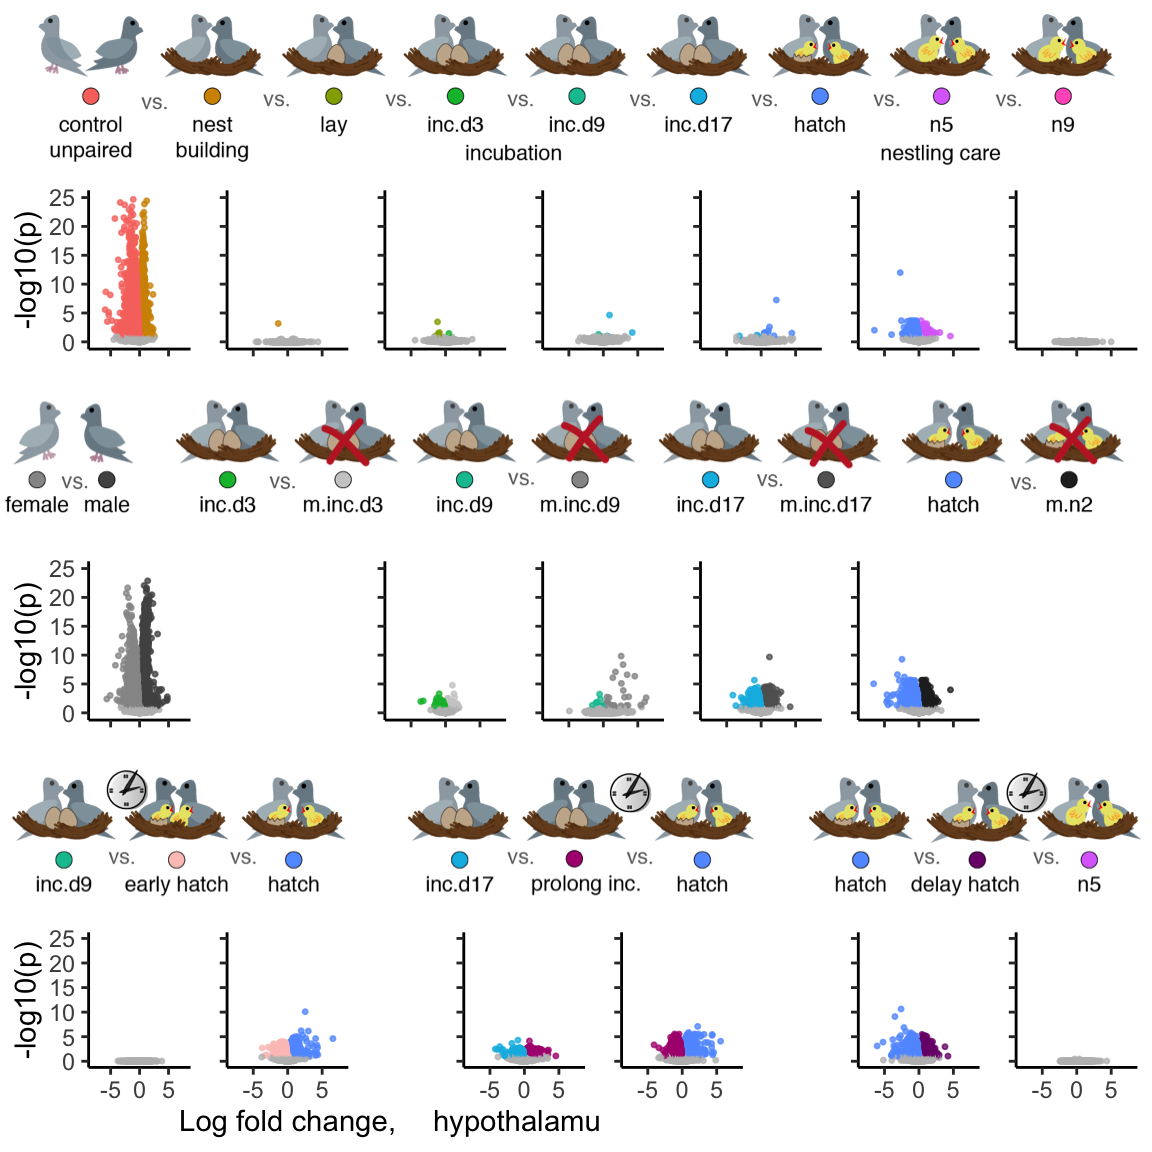
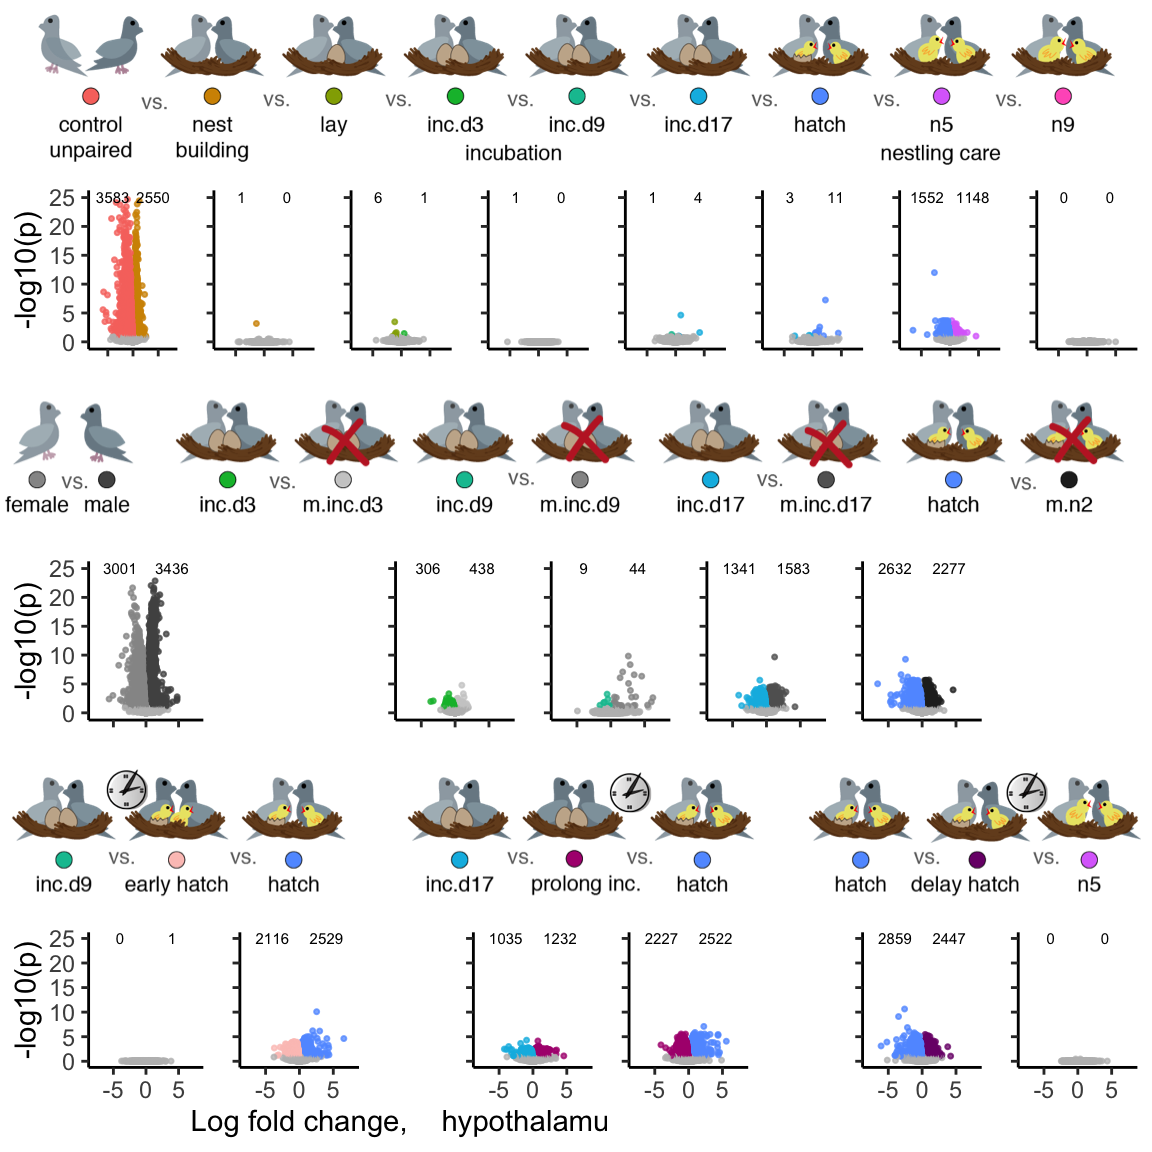
new volcano plots with gene expression counts

diff --git a/analysis/06b_DESeq2_ALL_gonad.md b/analysis/06b_DESeq2_ALL_gonad.md
@@ -285,11 +285,12 @@ DEseq2 on all chaacterization and manipulations
               b + theme(axis.title.x = element_blank(), axis.text.x = element_blank()),
               c + theme(axis.title = element_blank(), axis.text = element_blank()) ,
               d + theme(axis.title = element_blank(), axis.text = element_blank()), 
+              e + theme(axis.title = element_blank(), axis.text = element_blank()),
               f + theme(axis.title = element_blank(), axis.text = element_blank()),
               g + theme(axis.title = element_blank(), axis.text = element_blank()),
               h + theme(axis.title = element_blank(), axis.text = element_blank()),
               i + theme(axis.title = element_blank(), axis.text = element_blank()),
-              nrow = 1, rel_widths = c(1.3,1,1,1,1,1,1))
+              nrow = 1, rel_widths = c(1.4,1,1,1,1,1,1,1))
 
     remove <- plot_grid( 
               a + theme(axis.title.x = element_blank(), axis.text.x = element_blank()),
@@ -298,8 +299,7 @@ DEseq2 on all chaacterization and manipulations
               k + theme(axis.title = element_blank(), axis.text = element_blank()) , 
               l + theme(axis.title = element_blank(), axis.text = element_blank()) , 
               m + theme(axis.title = element_blank(), axis.text = element_blank()), 
-              NULL, nrow = 1, rel_widths = c(1.3, 1, 1,1,1,1,1))
-
+              NULL, nrow = 1, rel_widths = c(1.4, 1, 1,1,1,1,1))
 
     timing <- plot_grid( 
               n , 
@@ -312,7 +312,7 @@ DEseq2 on all chaacterization and manipulations
                NULL,
               r + theme(axis.title.y = element_blank(), axis.text.y = element_blank()) , 
               s + theme(axis.title.y = element_blank(), axis.text.y = element_blank()),
-                nrow = 1, rel_widths = c(1.3,1, 0.5, 1, 1, 0.5, 1, 1)) 
+                nrow = 1, rel_widths = c(1.4,1, 0.5, 1, 1, 0.5, 1, 1)) 
 
     charicons <- png::readPNG("../figures/images/DoveParentsRNAseq_volcanos-char.png")
     charicons <-  grid::rasterGrob(charicons, interpolate=TRUE)
@@ -323,6 +323,22 @@ DEseq2 on all chaacterization and manipulations
     timingicons <- png::readPNG("../figures/images/DoveParentsRNAseq_volcanos-timing.png")
     timingicons <-  grid::rasterGrob(timingicons, interpolate=TRUE)
 
-    plot_grid(charicons, char, removeicons, remove, timingicons, timing, nrow = 6, rel_heights = c(0.9,1,0.9,1,0.9,1.2))
+    plot_grid(charicons, char, removeicons, remove, timingicons, timing, 
+              nrow = 6, rel_heights = c(0.9,1,0.9,1,0.9,1.2))
 
 ![](../figures/DESeqAll/volcanos-gonads-1.png)
+
+    char2 <- plot_grid(
+              b ,
+              c + theme(axis.title.y = element_blank(), axis.text.y = element_blank()) ,
+              d + theme(axis.title.y = element_blank(), axis.text.y = element_blank()), 
+              e + theme(axis.title.y = element_blank(), axis.text.y = element_blank()),
+              f + theme(axis.title.y = element_blank(), axis.text.y = element_blank()),
+              g + theme(axis.title.y = element_blank(), axis.text.y = element_blank()),
+              h + theme(axis.title.y = element_blank(), axis.text.y = element_blank()),
+              i + theme(axis.title.y = element_blank(), axis.text.y = element_blank()),
+              nrow = 1, rel_widths = c(1.4,1,1,1,1,1,1,1))
+
+    plot_grid(charicons, char2, nrow = 2, rel_heights = c(0.9,1))
+
+![](../figures/DESeqAll/volcanos-gon-char-1.png)

diff --git a/analysis/06_DESeq2_ALL.md b/analysis/06_DESeq2_ALL.md
@@ -285,11 +285,12 @@ DEseq2 on all chaacterization and manipulations
               b + theme(axis.title.x = element_blank(), axis.text.x = element_blank()),
               c + theme(axis.title = element_blank(), axis.text = element_blank()) ,
               d + theme(axis.title = element_blank(), axis.text = element_blank()), 
+              e + theme(axis.title = element_blank(), axis.text = element_blank()),
               f + theme(axis.title = element_blank(), axis.text = element_blank()),
               g + theme(axis.title = element_blank(), axis.text = element_blank()),
               h + theme(axis.title = element_blank(), axis.text = element_blank()),
               i + theme(axis.title = element_blank(), axis.text = element_blank()),
-              nrow = 1, rel_widths = c(1.3,1,1,1,1,1,1))
+              nrow = 1, rel_widths = c(1.4,1,1,1,1,1,1,1,1))
 
     remove <- plot_grid( 
               a + theme(axis.title.x = element_blank(), axis.text.x = element_blank()),
@@ -298,7 +299,7 @@ DEseq2 on all chaacterization and manipulations
               k + theme(axis.title = element_blank(), axis.text = element_blank()) , 
               l + theme(axis.title = element_blank(), axis.text = element_blank()) , 
               m + theme(axis.title = element_blank(), axis.text = element_blank()), 
-              NULL, nrow = 1, rel_widths = c(1.3, 1, 1,1,1,1,1))
+              NULL, nrow = 1, rel_widths = c(1.4, 1, 1,1,1,1,1))
 
 
     timing <- plot_grid( 
@@ -312,7 +313,7 @@ DEseq2 on all chaacterization and manipulations
                NULL,
               r + theme(axis.title.y = element_blank(), axis.text.y = element_blank()) , 
               s + theme(axis.title.y = element_blank(), axis.text.y = element_blank()),
-                nrow = 1, rel_widths = c(1.3,1, 0.5, 1, 1, 0.5, 1, 1)) 
+                nrow = 1, rel_widths = c(1.4,1, 0.5, 1, 1, 0.5, 1, 1)) 
 
     charicons <- png::readPNG("../figures/images/DoveParentsRNAseq_volcanos-char.png")
     charicons <-  grid::rasterGrob(charicons, interpolate=TRUE)
@@ -326,3 +327,18 @@ DEseq2 on all chaacterization and manipulations
     plot_grid(charicons, char, removeicons, remove, timingicons, timing, nrow = 6, rel_heights = c(0.9,1,0.9,1,0.9,1.2))
 
 ![](../figures/DESeqAll/volcanos-pituitary-1.png)
+
+    char2 <- plot_grid(
+              b ,
+              c + theme(axis.title.y = element_blank(), axis.text.y = element_blank()) ,
+              d + theme(axis.title.y = element_blank(), axis.text.y = element_blank()), 
+              e + theme(axis.title.y = element_blank(), axis.text.y = element_blank()),
+              f + theme(axis.title.y = element_blank(), axis.text.y = element_blank()),
+              g + theme(axis.title.y = element_blank(), axis.text.y = element_blank()),
+              h + theme(axis.title.y = element_blank(), axis.text.y = element_blank()),
+              i + theme(axis.title.y = element_blank(), axis.text.y = element_blank()),
+              nrow = 1, rel_widths = c(1.4,1,1,1,1,1,1,1))
+
+    plot_grid(charicons, char2, nrow = 2, rel_heights = c(0.9,1))
+
+![](../figures/DESeqAll/volcanos-pit-char-1.png)
